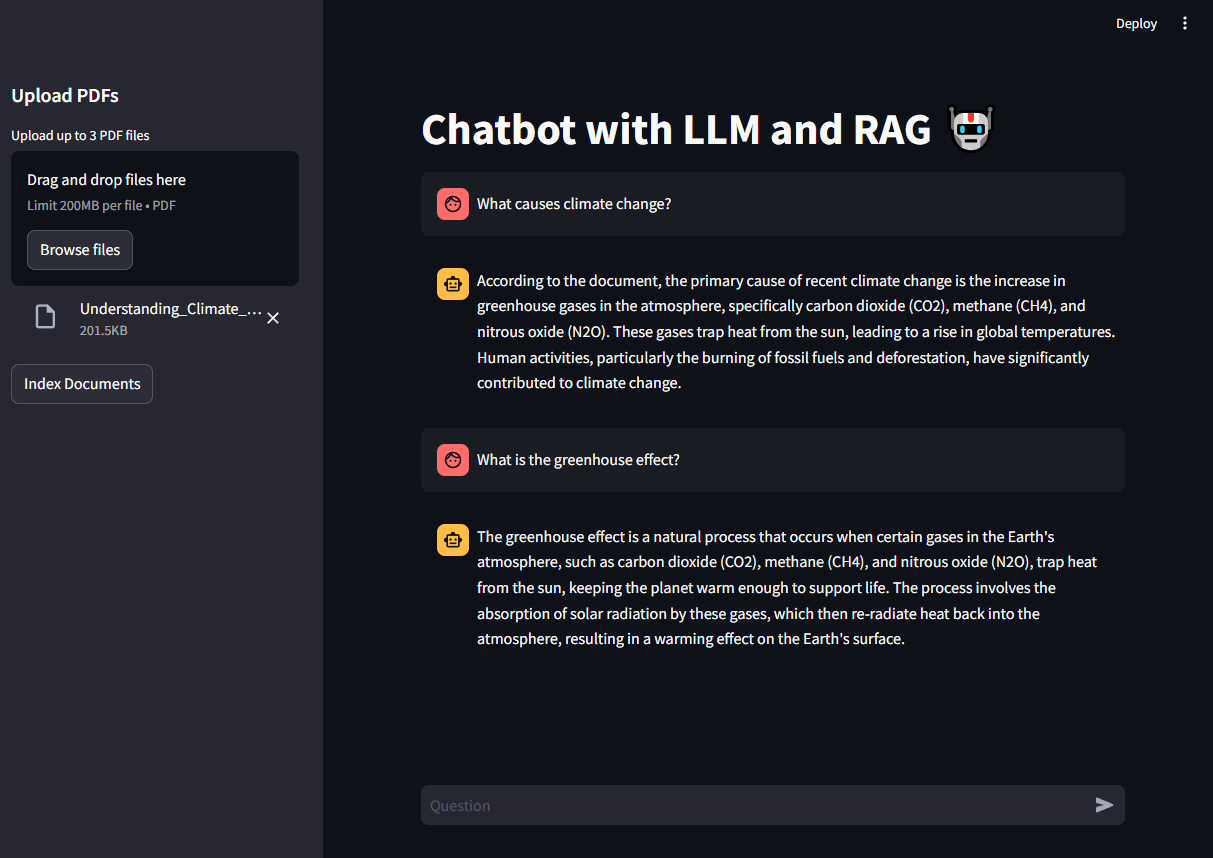
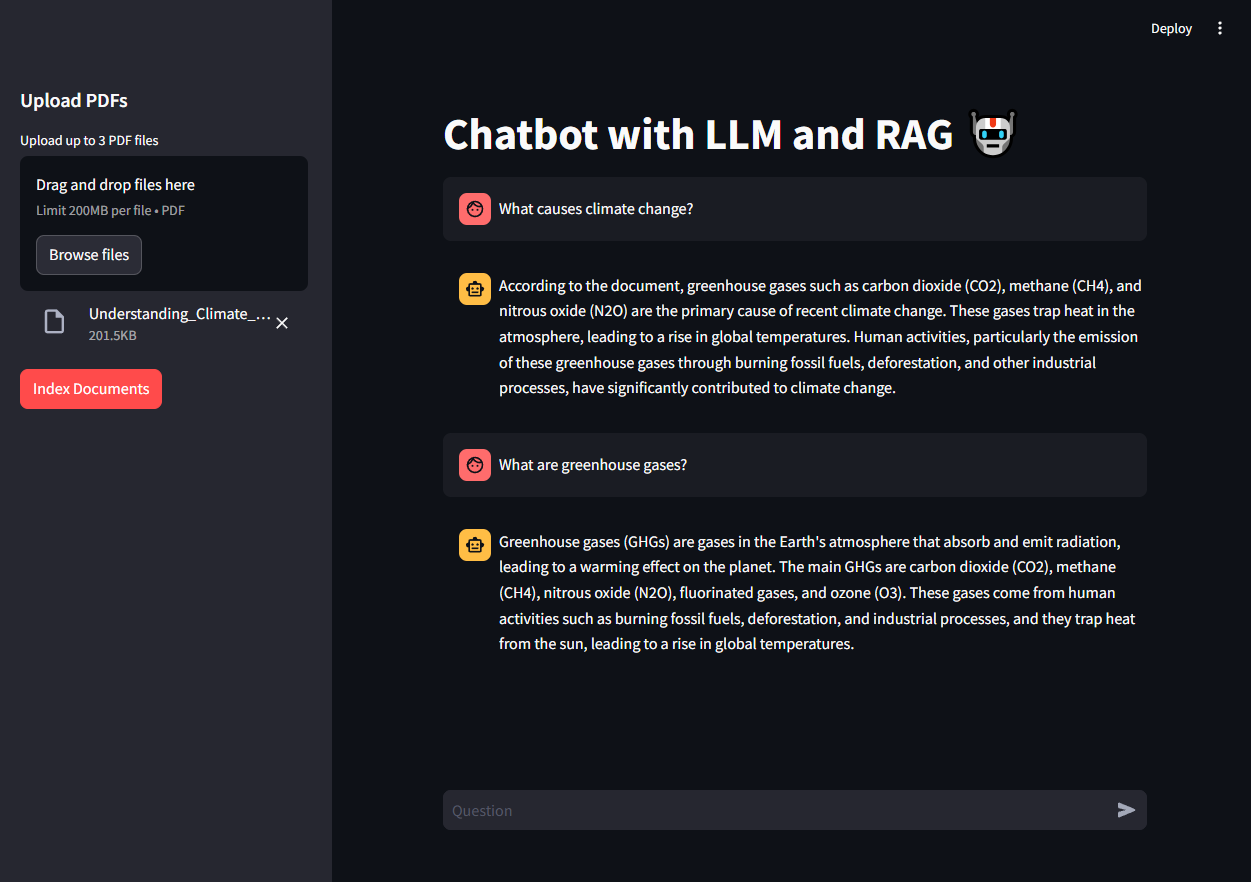
update ui

diff --git a/src/ui.py b/src/ui.py
@@ -30,7 +30,7 @@ with st.sidebar:
     )
     
     # Button to load PDFs
-    load_button = st.button("Index Documents", key="load_pdfs")
+    load_button = st.button("Index Documents", key="load_pdfs", type='primary')
 
 # Process PDFs and store them in Chroma when the button is clicked
 if load_button:
